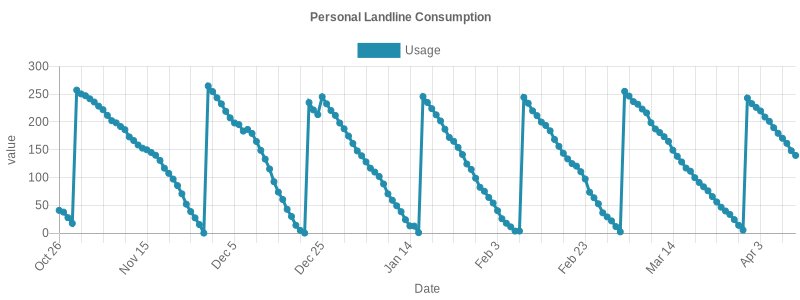
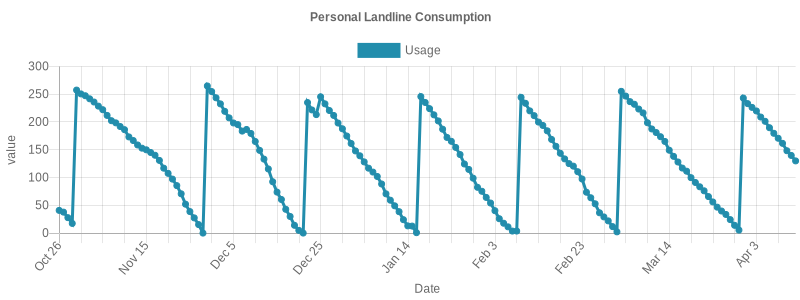
update logs

diff --git a/quota-logs/README.md b/quota-logs/README.md
@@ -167,3 +167,4 @@
 ## Tue Apr 09 2024 00:35:02 GMT+0200|161.55/250
 ## Wed Apr 10 2024 00:35:45 GMT+0200|148.23/250
 ## Thu Apr 11 2024 00:35:18 GMT+0200|139.76/250
+## Fri Apr 12 2024 00:35:17 GMT+0200|129.95/250
